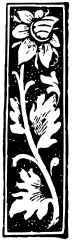
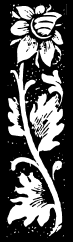
flower stamp

diff --git a/radio.py b/radio.py
@@ -117,7 +117,7 @@ def display_info(name, play_status):
 
     icon_path = f'assets/flower.png'
     icon = Image.open(icon_path).resize((30, 110))
-    image.paste(icon, (19,55))
+    image.paste(icon, (19,70))
 
     font = ImageFont.load_default()
     draw.text((19, 200), show_names[0], font=font, fill=(255, 255, 255))
